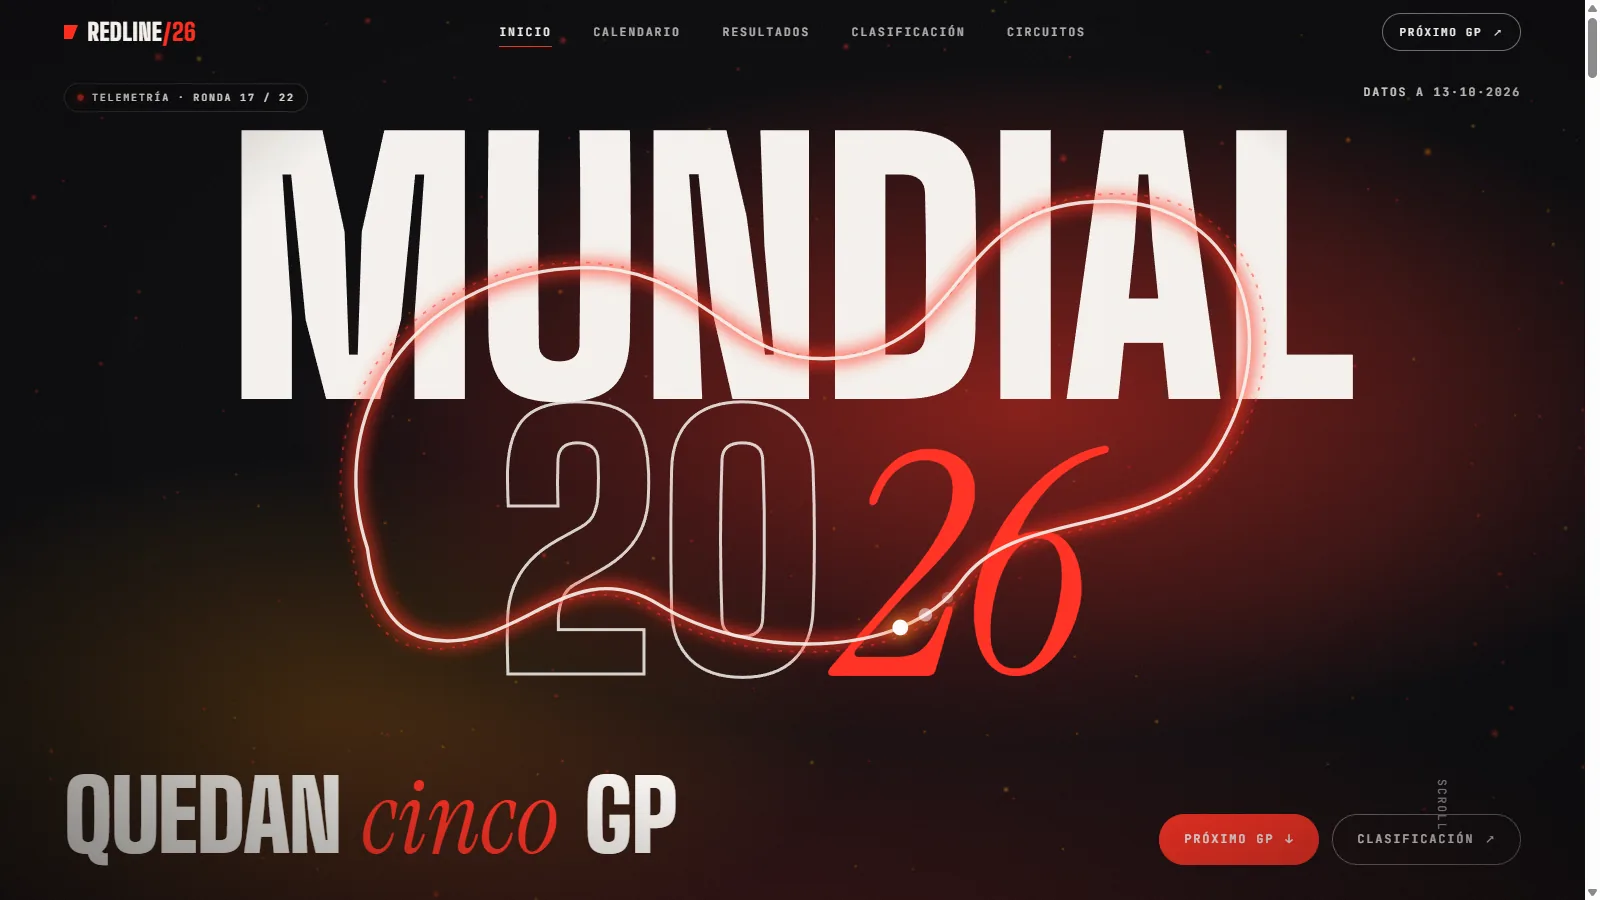
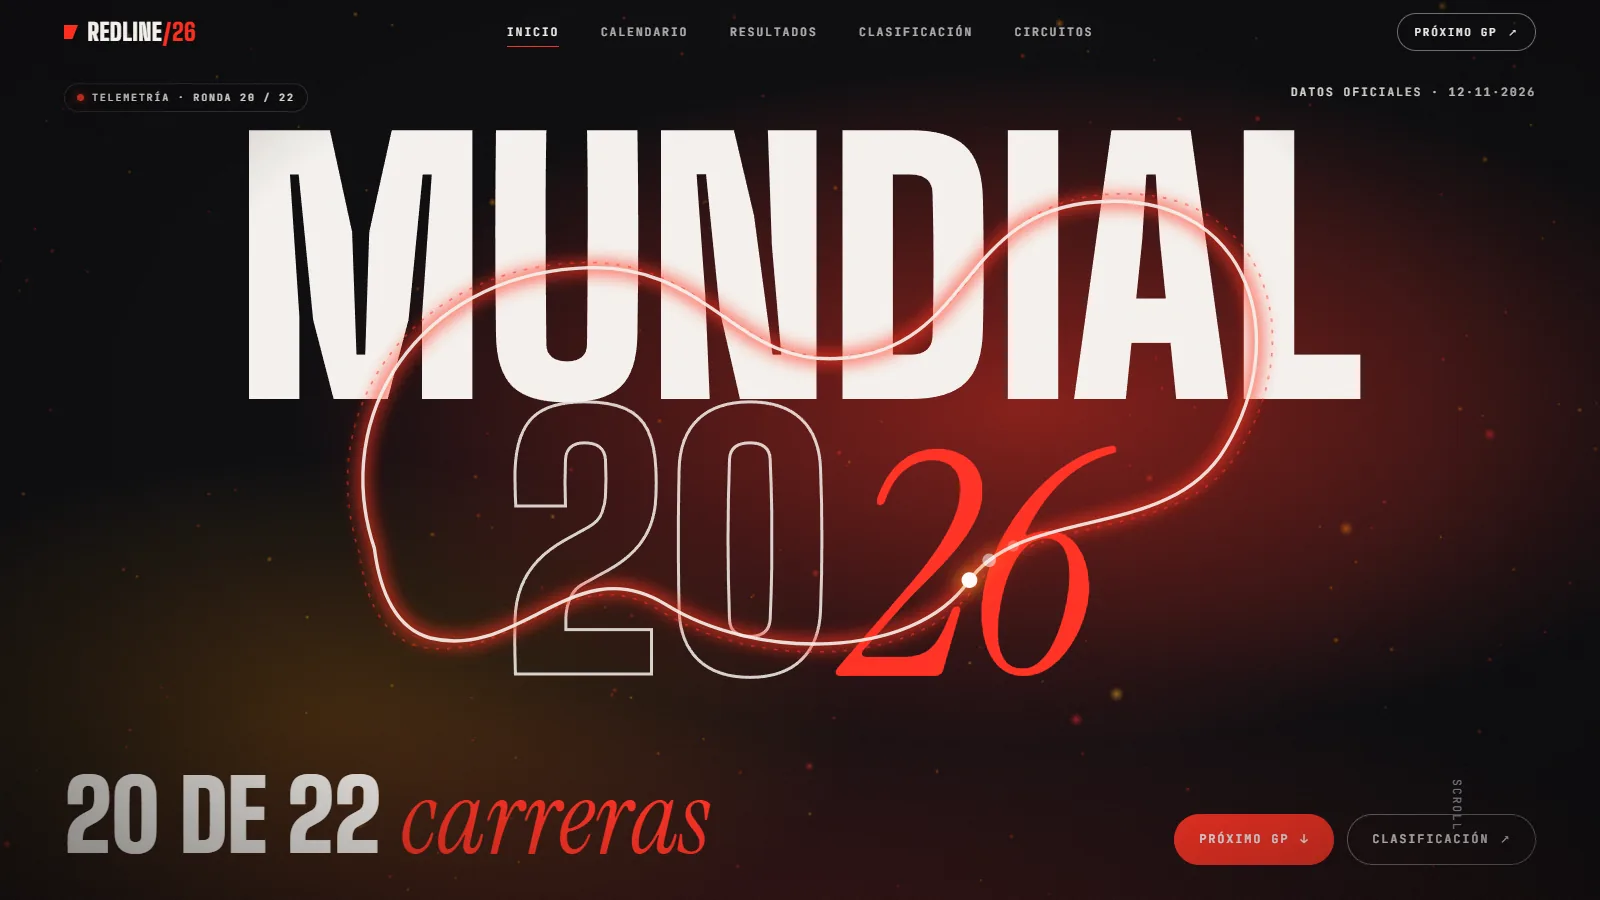
REDLINE/26: datos oficiales en tiempo real y portada actualizada

diff --git a/data/proyectos.ts b/data/proyectos.ts
@@ -99,29 +99,31 @@ export const proyectos: Proyecto[] = [
     tipo: "Web animada",
     fecha: "2026",
     resumen:
-      "Web sobre el Mundial de MotoGP 2026, con animaciones al hacer scroll, efectos 3D y los datos de la temporada.",
+      "Web del Mundial de MotoGP 2026 con datos oficiales en tiempo real: se actualiza sola tras cada carrera, con animaciones al hacer scroll y efectos 3D.",
     imagen: "/proyectos/redline-portada.webp",
     encuadre: "captura",
     pieImagen: "Página de inicio.",
-    estado: "En desarrollo · publicada, se actualiza tras cada GP",
-    estadoCorto: "En desarrollo",
-    marca: "obras",
+    estado: "Publicada · datos oficiales en tiempo real",
+    estadoCorto: "Datos en tiempo real",
+    marca: "servicio",
     objetivo:
-      "Hacer una web del Mundial de MotoGP 2026 que se vea como una retransmisión: calendario, resultados y clasificación de MotoGP, Moto2 y Moto3.",
+      "Hacer una web del Mundial de MotoGP 2026 que se vea como una retransmisión y que se mantenga al día sola: calendario, resultados y clasificación de MotoGP, Moto2 y Moto3.",
     como: [
-      "Web estática en HTML, CSS y JavaScript, sin compilar, con cinco páginas: inicio, calendario, resultados, clasificación y circuitos.",
-      "Animaciones con GSAP y ScrollTrigger, desplazamiento suave con Lenis y efectos 3D con Three.js (WebGL).",
-      "Los datos de la temporada están en un solo archivo; a partir de ellos se calculan solas las estadísticas: victorias por piloto y por fábrica, quién puede ser campeón todavía y los kilómetros de viaje entre circuitos.",
+      "Datos oficiales en tiempo real: una función serverless en Netlify consulta la API de resultados de MotoGP y la web se actualiza sola minutos después de cada sesión, sin tocar el código ni volver a publicar.",
+      "La función calcula ganadores, poles, la clasificación de las tres categorías, el mundial de constructores y la hora de la próxima carrera (local y en España), y guarda la respuesta en caché para que la web cargue rápido.",
+      "Si la API no responde, la web muestra la última copia guardada; nunca se queda en blanco. También contempla carreras canceladas, banderas rojas con nueva salida y el final de temporada.",
+      "Los titulares y las frases de la portada se escriben solos a partir de los datos: quién lidera, por cuántos puntos y quién ya es campeón.",
+      "Web en HTML, CSS y JavaScript, sin compilar, con cinco páginas. Animaciones con GSAP y ScrollTrigger, desplazamiento suave con Lenis y efectos 3D con Three.js (WebGL).",
       "La página de circuitos dibuja la ruta del Mundial en un mapa SVG hecho a mano, con una ampliación de Europa.",
     ],
     estadoDetalle: [
       "Publicada en Netlify, con las cinco páginas funcionando en ordenador y en móvil.",
-      "Sigue en desarrollo: los datos se actualizan a mano después de cada carrera hasta el final de la temporada, y la web irá cambiando según evolucione el campeonato.",
+      "Datos oficiales en tiempo real: resultados, clasificaciones y próxima carrera se actualizan solos durante toda la temporada.",
       "Sin logos, fotos ni marcas oficiales: el trazado de la portada es una ilustración.",
     ],
-    tecnologias: ["HTML", "CSS", "JavaScript", "GSAP", "ScrollTrigger", "Lenis", "Three.js", "SVG"],
-    ia: "Apoyo intensivo de IA en el código, en las animaciones y en la búsqueda de datos de la temporada.",
-    yo: "Yo planteé la idea: que la web se sintiera como una retransmisión de televisión. Elegí el estilo y las animaciones, revisé cada pantalla y pedí cambios hasta que la portada estuvo a la altura; después llevé ese mismo estilo al resto de páginas.",
+    tecnologias: ["HTML", "CSS", "JavaScript", "Netlify Functions", "API REST", "GSAP", "ScrollTrigger", "Lenis", "Three.js", "SVG"],
+    ia: "Apoyo intensivo de IA en el código, en las animaciones y en la integración con la API de datos.",
+    yo: "Yo planteé la idea: que la web se sintiera como una retransmisión de televisión. Elegí el estilo y las animaciones, revisé cada pantalla y pedí cambios hasta que la portada estuvo a la altura. Cuando actualizar los datos a mano tras cada GP se volvió un problema, propuse que la web se actualizara sola y comprobé que los datos coincidieran con los oficiales.",
     enlaces: [{ texto: "Ver la web", href: "https://redline-26.netlify.app/" }],
   },
   {

diff --git a/PRODUCT.md b/PRODUCT.md
@@ -29,7 +29,7 @@ Se ve en móvil y en escritorio. Se publica como sitio estático en Netlify (cri
 ## Capabilities and Constraints
 
 - Next.js 15 (export estático), React 19, Tailwind 4, Framer Motion. Sin servidor.
-- Proyectos reales: SafeRouteAI (app Android + API, publicada como APK), web de SafeRouteAI (publicada), JothanPh Fotografía (web completa de su hermano, funciona en local, sin desplegar), REDLINE/26 (web animada sobre el Mundial de MotoGP 2026, publicada en redline-26.netlify.app y en desarrollo: se actualiza tras cada GP). Hay además una web hecha para un negocio real que no se muestra hasta tener el permiso del cliente; su ficha está fuera de este repo.
+- Proyectos reales: SafeRouteAI (app Android + API, publicada como APK), web de SafeRouteAI (publicada), JothanPh Fotografía (web completa de su hermano, funciona en local, sin desplegar), REDLINE/26 (web animada sobre el Mundial de MotoGP 2026, publicada en redline-26.netlify.app, con datos oficiales en tiempo real a través de una función de Netlify). Hay además una web hecha para un negocio real que no se muestra hasta tener el permiso del cliente; su ficha está fuera de este repo.
 - Formación: SMR (2021–2023), DAM (2024–2026). Prácticas en el Hospital de Villalba (2023) y en un despacho de abogados (2025).
 
 ## Brand Commitments
